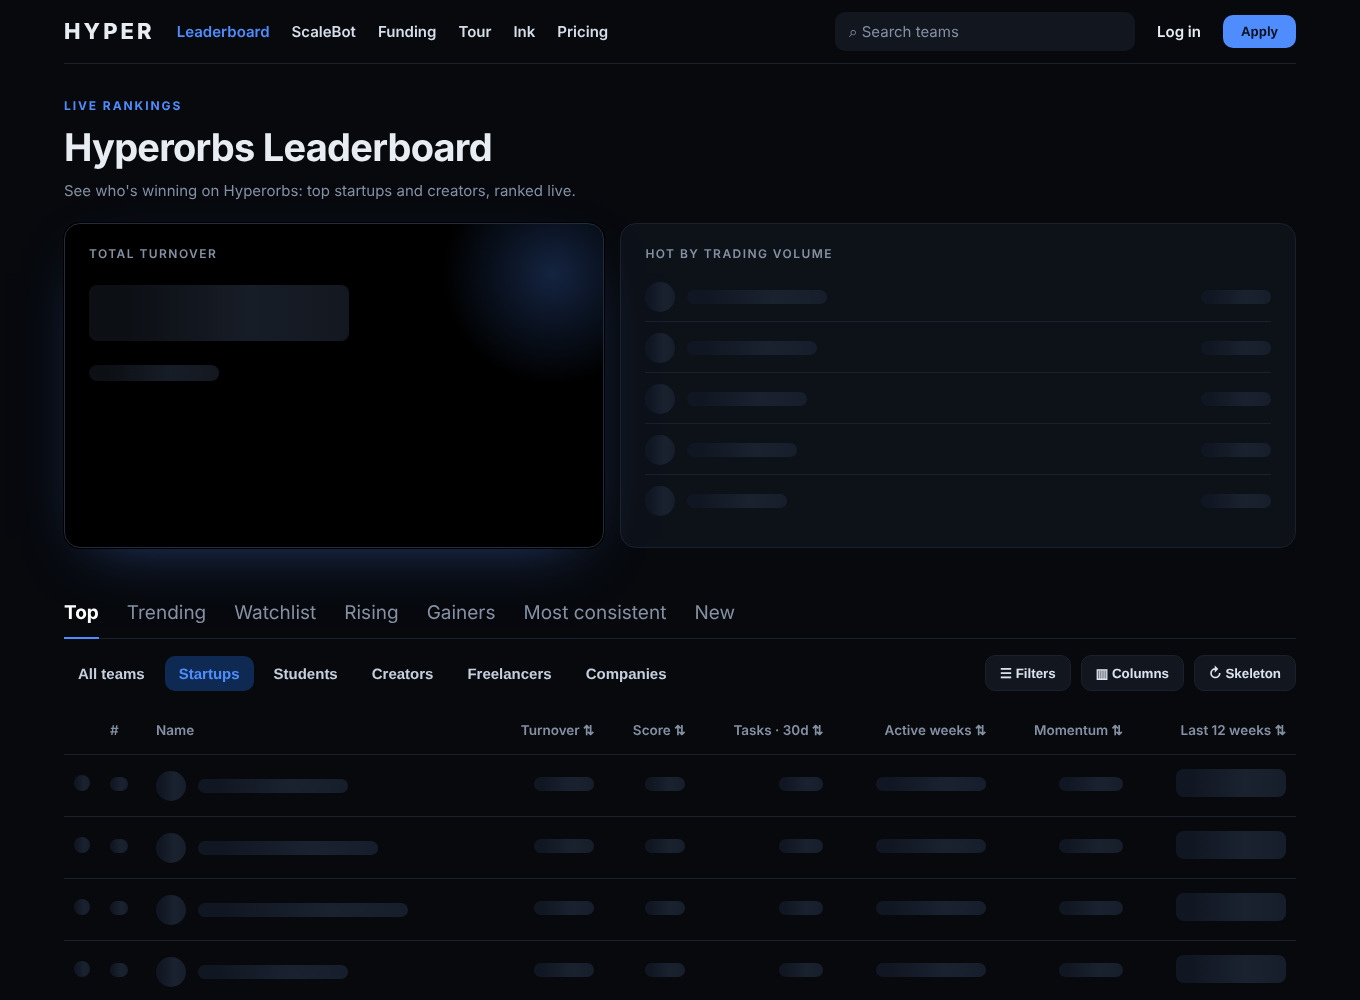
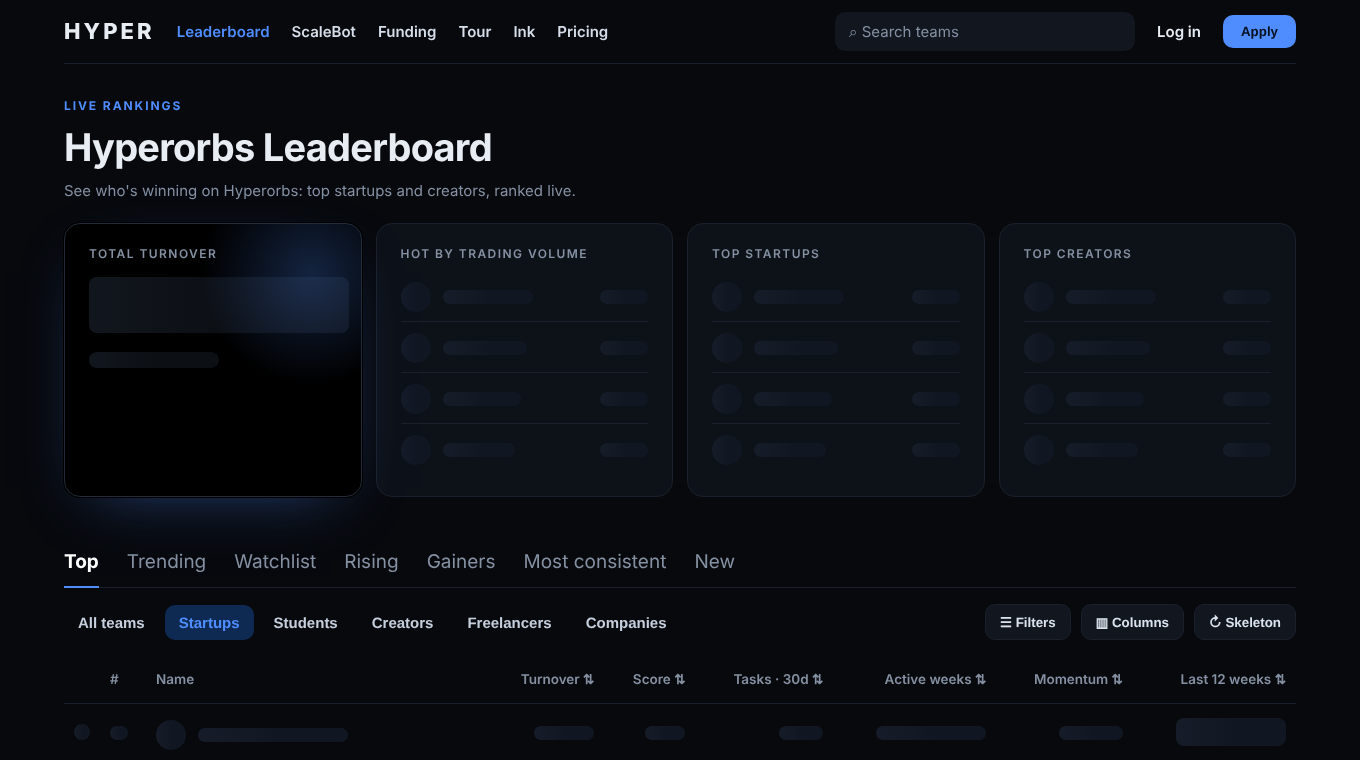
Hyperorbs leaderboard: four hero boxes
Claude-Session: https://claude.ai/code/session_014ode3LYNBhb6YGg7AxyYQM

diff --git a/hyperorbs-leaderboard/index.html b/hyperorbs-leaderboard/index.html
@@ -6,19 +6,19 @@
 *{box-sizing:border-box}body{margin:0;background:var(--bg);color:var(--text);font:15px/1.4 Inter,system-ui,-apple-system,Segoe UI,Roboto,Arial,sans-serif}
 a{color:inherit;text-decoration:none}.wrap{max-width:1280px;margin:0 auto;padding:0 24px}
 nav{display:flex;align-items:center;gap:22px;height:64px;border-bottom:1px solid var(--line)}
-.logo{font-weight:800;letter-spacing:.14em;font-size:22px}.nav a{color:#d6deea;font-weight:600}.nav a.on{color:var(--blue)}
+.logo{font-weight:800;letter-spacing:.14em;font-size:22px}.nav{display:flex;gap:22px}.nav a{color:#d6deea;font-weight:600}.nav a.on{color:var(--blue)}
 .sp{flex:1}.search{display:flex;align-items:center;gap:8px;background:#11161f;border-radius:10px;padding:9px 14px;width:300px;color:var(--mut)}
 .btn{background:var(--blue);color:#06101f;border:0;border-radius:10px;padding:9px 18px;font-weight:700;cursor:pointer}
 .hero{padding:34px 0 10px}.eyebrow{color:var(--blue);font-weight:700;letter-spacing:.16em;font-size:12px;text-transform:uppercase}
 h1{font-size:38px;margin:6px 0 6px;letter-spacing:-.02em}.sub{color:var(--mut);margin:0 0 22px}
-.boxes{display:grid;grid-template-columns:1fr 1.25fr;gap:16px}
-.box{border-radius:16px;padding:22px 24px;border:1px solid var(--line);background:var(--panel);min-height:200px}
+.boxes{display:grid;grid-template-columns:repeat(4,1fr);gap:14px}
+.box{border-radius:16px;padding:22px 24px;border:1px solid var(--line);background:var(--panel);min-height:250px}
 .box.black{background:#000;border-color:#222c3a;box-shadow:0 0 0 1px #000,0 20px 60px -30px rgba(79,141,255,.5);position:relative;overflow:hidden}
 .box.black:after{content:"";position:absolute;right:-60px;top:-60px;width:220px;height:220px;border-radius:50%;background:radial-gradient(closest-side,rgba(79,141,255,.25),transparent)}
 .lbl{color:var(--mut);font-size:12px;letter-spacing:.12em;text-transform:uppercase;font-weight:600}
-.big{font-size:60px;font-weight:800;letter-spacing:-.03em;margin:14px 0 4px}.chg{color:var(--green);font-weight:600}
+.big{font-size:46px;font-weight:800;letter-spacing:-.03em;margin:14px 0 4px}.chg{color:var(--green);font-weight:600}
 .hot{display:flex;flex-direction:column;gap:2px;margin-top:10px}.hrow{display:flex;align-items:center;gap:12px;padding:9px 0;border-bottom:1px solid var(--line)}.hrow:last-child{border:0}
-.av{width:30px;height:30px;border-radius:50%;flex:none}.hv{margin-left:auto;font-weight:700}.hr{color:var(--mut);width:18px}
+.av{width:30px;height:30px;border-radius:50%;flex:none}.hv{margin-left:auto;font-weight:700;text-align:right}.hrow b{font-size:14px}.hrow small.s{white-space:nowrap;color:var(--mut);display:block;font-weight:500;font-size:11.5px}.hr{color:var(--mut);width:18px}
 .tabs{display:flex;gap:28px;margin-top:30px;border-bottom:1px solid var(--line)}.tab{padding:12px 0;color:var(--mut);font-size:19px;cursor:pointer;position:relative}.tab.on{color:#fff;font-weight:700}.tab.on:after{content:"";position:absolute;left:0;right:0;bottom:-1px;height:2px;background:var(--blue)}
 .bar{display:flex;align-items:center;gap:8px;padding:16px 0}.chip{padding:9px 14px;border-radius:10px;color:#c5cfdd;font-weight:600;cursor:pointer;background:transparent;border:0;font-size:15px}.chip.on{background:#0f2a52;color:var(--blue)}
 .tools{margin-left:auto;display:flex;gap:10px}.tbtn{background:#11161f;border:1px solid var(--line);color:#dbe3ee;padding:9px 14px;border-radius:10px;font-weight:600;cursor:pointer}
@@ -35,10 +35,10 @@ tr.row:hover td{background:#0b0f16}.rank{color:var(--mut);width:46px}.star{color
 .sk{background:linear-gradient(90deg,#111722 25%,#1a2230 37%,#111722 63%);background-size:400% 100%;animation:sh 1.3s infinite;border-radius:8px;display:inline-block}
 @keyframes sh{0%{background-position:100% 50%}100%{background-position:0 50%}}
 .sk.c{border-radius:50%}.black .sk{background:linear-gradient(90deg,#0c0f14 25%,#171d27 37%,#0c0f14 63%);background-size:400% 100%}
-@media(max-width:900px){.boxes{grid-template-columns:1fr}.big{font-size:44px}.nav{display:none}.search{width:auto;flex:1}.bar{flex-wrap:wrap}.tools{margin-left:0}.tbl{overflow-x:auto}table{min-width:760px}}
+@media(max-width:1100px){.boxes{grid-template-columns:repeat(2,1fr)}}@media(max-width:640px){.boxes{grid-template-columns:1fr}}@media(max-width:900px){.big{font-size:44px}.nav{display:none}.search{width:auto;flex:1}.bar{flex-wrap:wrap}.tools{margin-left:0}.tbl{overflow-x:auto}table{min-width:760px}}
 </style></head><body>
 <div class="wrap">
-<nav><span class="logo">HYPER</span><div class="nav" style="display:flex;gap:22px"><a class="on" href="#">Leaderboard</a><a href="#">ScaleBot</a><a href="#">Funding</a><a href="#">Tour</a><a href="#">Ink</a><a href="#">Pricing</a></div><span class="sp"></span><div class="search">⌕ Search teams</div><a href="#" style="font-weight:600">Log in</a><button class="btn">Apply</button></nav>
+<nav><span class="logo">HYPER</span><div class="nav"><a class="on" href="#">Leaderboard</a><a href="#">ScaleBot</a><a href="#">Funding</a><a href="#">Tour</a><a href="#">Ink</a><a href="#">Pricing</a></div><span class="sp"></span><div class="search">⌕ Search teams</div><a href="#" style="font-weight:600">Log in</a><button class="btn">Apply</button></nav>
 
 <section class="hero">
 <div class="eyebrow">Live rankings</div><h1>Hyperorbs Leaderboard</h1>
@@ -46,6 +46,8 @@ tr.row:hover td{background:#0b0f16}.rank{color:var(--mut);width:46px}.star{color
 <div class="boxes">
 <div class="box black"><div class="lbl">Total Turnover</div><div id="turn" class="big"></div><div class="chg" id="turnchg"></div></div>
 <div class="box"><div class="lbl">Hot by Trading Volume</div><div class="hot" id="hot"></div></div>
+<div class="box"><div class="lbl">Top Startups</div><div class="hot" id="topS"></div></div>
+<div class="box"><div class="lbl">Top Creators</div><div class="hot" id="topC"></div></div>
 </div></section>
 
 <div class="tabs" id="tabs"></div>
@@ -65,12 +67,15 @@ let view="Top",cat="Startups",loading=true;
 const fmt=n=>{const a=Math.abs(n);for(const [v,s] of [[1e12,"T"],[1e9,"B"],[1e6,"M"],[1e3,"K"]])if(a>=v){const x=n/v;return (x>=100?x.toFixed(0):x.toFixed(1).replace(/\.0$/,""))+s}return String(n)};
 const cur="₹";
 function spark(seed,color){let y=20,pts=[];for(let i=0;i<12;i++){y+=Math.sin(seed*7+i*1.7)*6-1.3;y=Math.max(4,Math.min(34,y));pts.push(`${i*10},${(38-y).toFixed(1)}`)}return `<svg width="120" height="38" viewBox="0 0 110 38"><polyline points="${pts.join(" ")}" fill="none" stroke="${color}" stroke-width="2" stroke-linejoin="round"/></svg>`}
+const skRow=i=>`<div class="hrow"><span class="sk c av"></span><span class="sk" style="width:${90-i*6}px;height:14px"></span><span class="sk hv" style="width:48px;height:14px"></span></div>`;
 function render(){
  // hero
  document.getElementById("turn").innerHTML=loading?'<span class="sk" style="width:260px;height:56px"></span>':cur+fmt(TOTAL);
  document.getElementById("turn").title=loading?"":cur+TOTAL.toLocaleString("en-IN");
  document.getElementById("turnchg").innerHTML=loading?'<span class="sk" style="width:130px;height:16px"></span>':"▲ 12.4% vs last 30 days";
- document.getElementById("hot").innerHTML=vol.map((v,i)=>loading?`<div class="hrow"><span class="sk c av"></span><span class="sk" style="width:${140-i*10}px;height:14px"></span><span class="sk hv" style="width:70px;height:14px"></span></div>`:`<div class="hrow"><span class="hr">${i+1}</span><span class="av" style="background:${pal[i]}"></span><b>${v[0]}</b><span class="hv">${cur}${fmt(v[1])} <small style="color:var(--green)">${v[2]}</small></span></div>`).join("");
+ document.getElementById("hot").innerHTML=vol.slice(0,4).map((v,i)=>loading?skRow(i):`<div class="hrow"><span class="hr">${i+1}</span><span class="av" style="background:${pal[i]}"></span><b>${v[0]}</b><span class="hv">${cur}${fmt(v[1])}<small class="s" style="color:var(--green)">${v[2]}</small></span></div>`).join("");
+ document.getElementById("topS").innerHTML=startups.slice(0,4).map((d,i)=>loading?skRow(i):`<div class="hrow"><span class="hr">${i+1}</span><span class="av" style="background:${pal[i]}"></span><b>${d[0]}</b><span class="hv">${cur}${fmt(d[2])}<small class="s">${d[3]} tasks</small></span></div>`).join("");
+ document.getElementById("topC").innerHTML=creators.slice(0,4).map((d,i)=>loading?skRow(i):`<div class="hrow"><span class="hr">${i+1}</span><span class="av" style="background:${pal[(i+4)%10]}"></span><b>${d[0]}</b><span class="hv">${d[2]} deals<small class="s">${d[3]} tasks</small></span></div>`).join("");
  document.getElementById("tabs").innerHTML=views.map(v=>`<div class="tab ${v==view?"on":""}" data-v="${v}">${v}</div>`).join("");
  document.getElementById("chips").innerHTML=cats.map(c=>`<button class="chip ${c==cat?"on":""}" data-c="${c}">${c}</button>`).join("");
  const isC=cat=="Creators";const data=isC?creators:startups;
